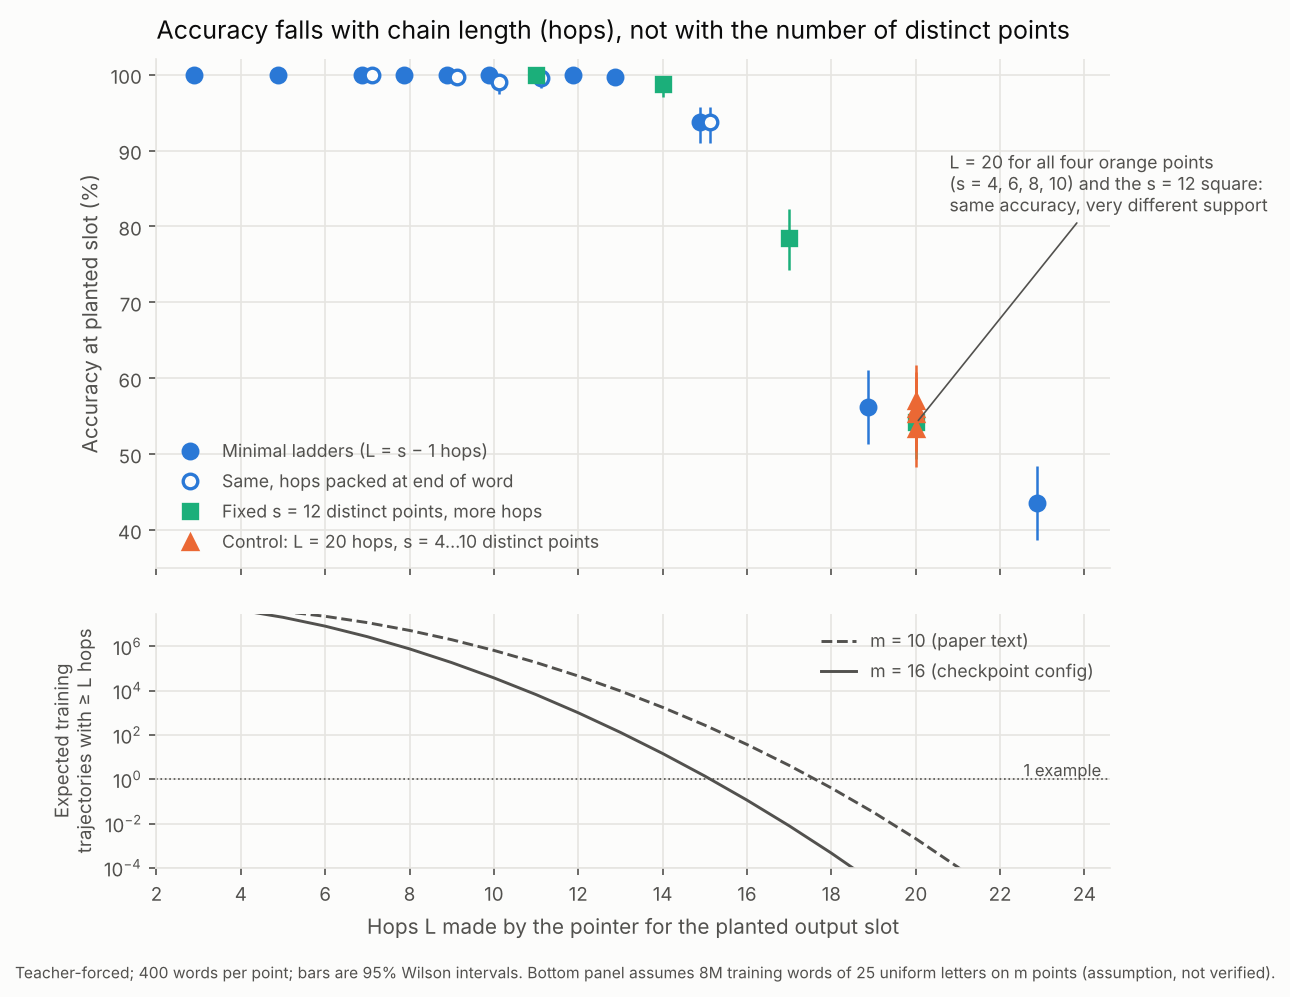
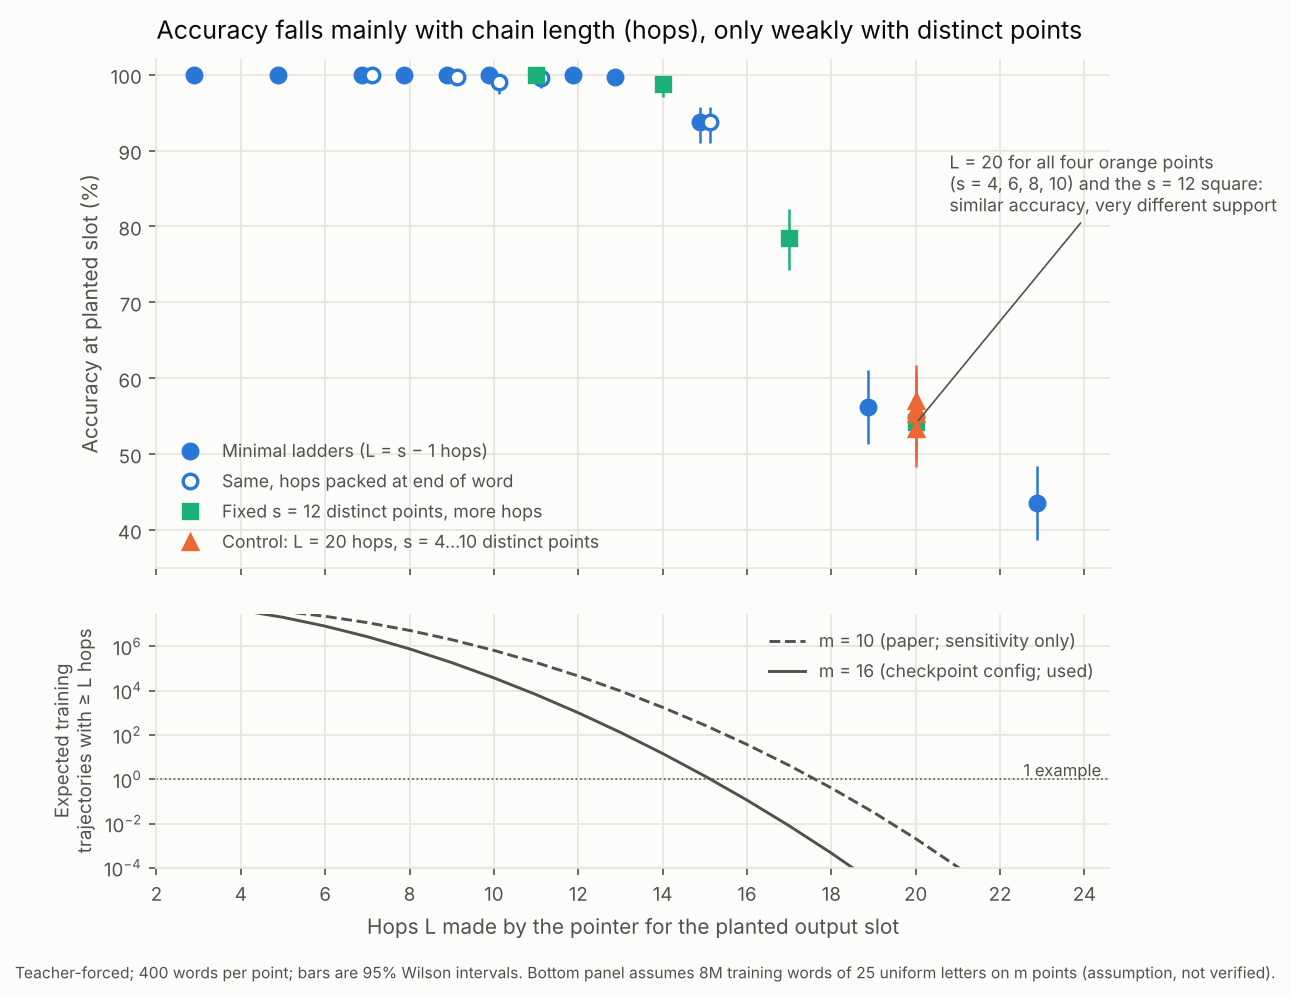
Update analysis: m=16 as training support, fixed-hop sweep, support stats, elementary position-embedding Gram
- report.md: take ACTUAL_GROUP_SIZE = 16 from the config as the training support; add the fixed-hop sweep across the s = 16/17 boundary
- run_beyond_support.py, support_stats.py and their results
- softened figure title (hop count dominates, distinct points have a small effect)
- elem_pos_gram.png: position-embedding self-similarity of the elementary checkpoint

Claude-Session: https://claude.ai/code/session_01WzxN2tYTWe13gioE5CAftL

diff --git a/claude-analysis/run_beyond_support.py b/claude-analysis/run_beyond_support.py
@@ -1,0 +1,37 @@
+"""
+Test B2: does having MORE distinct points than the training support (m = ACTUAL_GROUP_SIZE = 16 in the
+checkpoint config) hurt, once the number of hops L is held fixed?
+
+The ladder cells in run_ladder.py confound s and L (a chase with s distinct points needs L >= s-1 hops).
+Here L is fixed at 16 and at 20 and s is varied across the support boundary (s <= 16 inside, s >= 17 outside).
+Teacher-forced accuracy at the planted slot only (1 CPU, so no free-running decoding here).
+
+Usage: python run_beyond_support.py N_TF      (I used 1000; about 3 minutes)
+"""
+from paths import MODEL_TORN
+import csv, sys, time
+import numpy as np
+from np_transformer import NPTransformer
+from permdata import plant_batch
+from evalutil import tf_eval
+
+NTF = int(sys.argv[1]) if len(sys.argv) > 1 else 1000
+m = NPTransformer(MODEL_TORN)
+rng = np.random.default_rng(2027)
+
+cells = [(16, s) for s in (6, 12, 16, 17)] + [(20, s) for s in (6, 12, 16, 17, 21)]
+
+t0 = time.time()
+with open("beyond_support_results.csv", "w", newline="") as f:
+    wr = csv.writer(f)
+    wr.writerow(["L_hops", "s_distinct", "n_tf", "tf_k_ok", "tf_margin_median"])
+    for L, s in cells:
+        w, k = plant_batch(rng, NTF, L, s)
+        _, correct, margin, _ = tf_eval(m, w)
+        idx = np.arange(NTF)
+        ok = int(correct[idx, k].sum())
+        wr.writerow([L, s, NTF, ok, round(float(np.median(margin[idx, k])), 2)])
+        f.flush()
+        print(f"[{time.time()-t0:4.0f}s] L={L:2d} s={s:2d}  TF p_k {ok}/{NTF} ({100*ok/NTF:.1f}%)  "
+              f"margin med {np.median(margin[idx, k]):.1f}", flush=True)
+print("DONE")

diff --git a/claude-analysis/make_figure.py b/claude-analysis/make_figure.py
@@ -52,8 +52,8 @@ draw(s12, AQUA, "s", True, "Fixed s = 12 distinct points, more hops", 0.0)
 draw(ctrl, ORANGE, "^", True, "Control: L = 20 hops, s = 4…10 distinct points", 0.0)
 
 ax.set_ylim(35, 102); ax.set_ylabel("Accuracy at planted slot (%)", color=INK2, fontsize=10)
-ax.set_title("Accuracy falls with chain length (hops), not with the number of distinct points", loc="left", color=INK, fontsize=12, pad=10)
-ax.annotate("L = 20 for all four orange points\n(s = 4, 6, 8, 10) and the s = 12 square:\nsame accuracy, very different support", xy=(20, 54), xytext=(20.8, 82), fontsize=8.5, color=INK2,
+ax.set_title("Accuracy falls mainly with chain length (hops), only weakly with distinct points", loc="left", color=INK, fontsize=12, pad=10)
+ax.annotate("L = 20 for all four orange points\n(s = 4, 6, 8, 10) and the s = 12 square:\nsimilar accuracy, very different support", xy=(20, 54), xytext=(20.8, 82), fontsize=8.5, color=INK2,
             arrowprops=dict(arrowstyle="-", color=INK2, lw=0.8))
 ax.legend(loc="lower left", frameon=False, fontsize=8.5, labelcolor=INK2)
 
@@ -62,7 +62,7 @@ def tail(m, L, N=25):
     q = 2*(m-1)/m**2
     return sum(comb(N, j) * q**j * (1-q)**(N-j) for j in range(L, N+1))
 WORDS = 8_000_000
-for m, ls, lab in [(10, "--", "m = 10 (paper text)"), (16, "-", "m = 16 (checkpoint config)")]:
+for m, ls, lab in [(10, "--", "m = 10 (paper; sensitivity only)"), (16, "-", "m = 16 (checkpoint config; used)")]:
     cnt = np.array([WORDS * m * tail(m, L) for L in Ls])
     bx.semilogy(Ls, np.maximum(cnt, 1e-6), ls, color=INK2, lw=1.4, label=lab)
 bx.axhline(1, color=INK2, lw=0.8, ls=":")

diff --git a/claude-analysis/support_stats.py b/claude-analysis/support_stats.py
@@ -1,0 +1,30 @@
+"""
+How far outside a 16-point training support are the paper-style test words?
+
+A training word (config: ACTUAL_GROUP_SIZE = 16, RELABEL = True) only ever touches <= 16 points. For fresh uniform
+words of 25 general-transposition letters on 25 points we count
+  touched : distinct points appearing in any non-identity letter (the word's support)
+  moved   : points not fixed by the resulting permutation
+and report how often each exceeds 16 (and 10, the paper's value).
+
+Usage: python support_stats.py [N_WORDS]     (default 200000; a few seconds)
+"""
+import sys
+import numpy as np
+from permdata import random_words, apply_words, moved_points
+
+N = int(sys.argv[1]) if len(sys.argv) > 1 else 200_000
+n = 25
+rng = np.random.default_rng(2027)
+W = random_words(rng, N)
+a, b = W // n, W % n
+touched = np.zeros((N, n), bool)
+nz = a != b
+rows = np.broadcast_to(np.arange(N)[:, None], W.shape)
+touched[rows[nz], a[nz]] = True
+touched[rows[nz], b[nz]] = True
+T = touched.sum(1)
+M = moved_points(apply_words(W))
+for name, x in (("touched points", T), ("moved points", M)):
+    print(f"{name:15s} min {x.min():2d}  mean {x.mean():5.2f}  max {x.max():2d}   "
+          f"P(>16) = {np.mean(x > 16):.6f}   P(>10) = {np.mean(x > 10):.6f}")

diff --git a/claude-analysis/report.md b/claude-analysis/report.md
@@ -6,16 +6,16 @@ Code, raw results and the figure are in this folder; commands to reproduce are i
 ## 1. Summary
 
 1. **Baseline reproduced on freshly generated words.** Free-running accuracy was 3,000/3,000. Teacher-forced word accuracy was 19,999/20,000, with 499,999/500,000 positions correct.
-2. **Every test word is globally out of distribution.** Across 20,000 words, the number of points moved by the output permutation was at least 12 (mean 21.0), whereas training words move at most $m$ points ($m$ is 10 in the paper; see §2.3 for a discrepancy).
-3. **Natural test words contain almost no long chases.** Per output slot, the pointer chase (§3.1) visited at most 10 distinct points, and only 7 of 500,000 slots reached 10. The paper's accuracy therefore says nothing about slots with more than 10 distinct points.
-4. **Planted-chase ("ladder") tests: accuracy tracks the number of hops $L$, not the number of distinct points $s$.**
+2. **Almost every test word is outside the training support.** I take the training support to be $m=16$ points, as in the checkpoint's config (§2.3). Fresh test words touch 15–25 distinct points (mean 21.6), and 99.95% touch more than 16 (`support_stats.py`, 200,000 words). Their permutations move 12–25 points (mean 21.0).
+3. **But each individual chase in a natural test word is short.** Per output slot, the pointer chase (§3.1) visited at most 10 distinct points, and only 7 of 500,000 slots reached 10. So a test word is globally outside the support while every one of its output slots is locally well inside it. The paper-style accuracy therefore says nothing about slots with long chases.
+4. **Planted-chase ("ladder") tests: accuracy is governed mainly by the number of hops $L$. The number of distinct points $s$ has a much smaller, gradual effect.**
    - Accuracy is essentially perfect up to $L\approx 12$ and falls steeply after $L\approx 15$.
-   - At $L=20$ hops, teacher-forced accuracy is 53–57% for $s=4,6,8,10$ and 54% for $s=12$.
    - At fixed $s=12$: 100% ($L=11$), 98.8% ($L=14$), 78.5% ($L=17$), 54.2% ($L=20$).
-5. **So the hypothesis I proposed earlier, that accuracy collapses once a trajectory has more distinct points than the training support, is not supported.** If $m=10$, chases with 11–14 distinct points were 99.8–100% correct. And the model fails with only 4 distinct points when the chase is long.
-6. **Unresolved: why hop count matters.** Either the 5-layer network cannot follow longer chains, or long chains are too rare in training, or both. The data is consistent with both (§3.2).
-7. **Token embeddings are close to $S_{25}$-invariant** (§3.4), but one of my earlier predictions about their spectrum failed.
-8. **A question for you:** the checkpoint's config says `ACTUAL_GROUP_SIZE = 16`, but the paper says training used $S_{10}$. Which was used for this checkpoint? (§2.3)
+   - At $L=20$ the model is at about 50–60% whether the chase visits 4 points or 21: 59.5% ($s=6$), 54.4% ($s=12$), 53.4% ($s=16$), 50.8% ($s=17$), 50.3% ($s=21$) with 1,000 words per cell.
+5. **So the hypothesis I proposed earlier, that accuracy collapses once a chase visits more distinct points than the training support, is not supported.** With $m=16$ my first ladder cells (11–14 distinct points, about 100% correct) were inside the support and did not test it. The fixed-hop sweep (§3.3) does: at $L=16$ and $L=20$ there is no step between $s=16$ and $s=17$ (changes of $+1.6$ and $-2.6$ points, each about one standard error). Accuracy declines only gently with $s$, by about 9 points from $s=6$ to $s=21$ at $L=20$.
+6. **Unresolved: why hop count matters.** Either the 5-layer network cannot follow longer chains, or long chains are too rare in training, or both. The data is consistent with both (§3.3).
+7. **Token embeddings are close to $S_{25}$-invariant** (§3.5), but one of my earlier predictions about their spectrum failed.
+8. **Training support is taken as $m=16$** from the config, per your note that this checkpoint may not be the paper's model (§2.3). I have not verified it against the training data.
 
 ## 2. Setup and provenance
 
@@ -32,7 +32,7 @@ Code, raw results and the figure are in this folder; commands to reproduce are i
 
 ### 2.3 Test words, and a discrepancy about the training support
 - The paper's test set is not in the repo. I generated words to match `fast-data-gen/src/main.rs` for the general type: 25 letters, each an independent uniform draw from the $25^2=625$ tokens (token $=25a+b$), with the permutation computed by swapping positions as in `get_permutation`.
-- **Discrepancy:** `trained-models/torn-bigger-13-config.py` sets `MAX_GROUP_SIZE = 25` and `ACTUAL_GROUP_SIZE = 16`, with `RELABEL = True`. The paper says $S_{10}$. The training data is not in the repo and I could not tell from the files which support size was used. **I show both $m=10$ and $m=16$ wherever it matters.** The main conclusion in item 4 above does not depend on which is right, because the failures also occur at $s=4$, well inside either support.
+- **Training support.** `trained-models/torn-bigger-13-config.py` sets `MAX_GROUP_SIZE = 25` and `ACTUAL_GROUP_SIZE = 16`, with `RELABEL = True`. The paper says $S_{10}$. You told me this checkpoint is probably not the one reported in the paper, merely one that did well, and that the config should be trusted over the paper. **So the working assumption throughout is $m=16$.** The training data is not in the repo, so I have not verified this independently. The $m=10$ row of the table in §3.3 and the dashed curve in the figure are kept only as a sensitivity check.
 
 ## 3. Results
 
@@ -92,20 +92,39 @@ Source: `strat_summary.txt` (20,000 words, 500,000 slots, teacher-forced).
 The full table (24 cells, including the remaining contig cells) is in `ladder_results.csv`.
 
 **What it shows.**
-- At $L=20$ the accuracy is the same, within noise, for $s=4$ up to $s=12$. At $s=12$ it varies from 100% to 54% as $L$ goes from 11 to 20. So $L$, not $s$, drives the failure.
+- At $L=20$ the accuracy is the same, within noise, for $s=4$ up to $s=12$ (400 words per cell). At $s=12$ it varies from 100% to 54% as $L$ goes from 11 to 20. So $L$ is the dominant variable. The larger fixed-hop sweep below finds a small additional dependence on $s$.
 - Where it fails, it fails softly: the median margin between the true logit and the best competitor goes from about 20 (easy) to about 0.6 at $L=20$. The model is close to indifferent rather than confidently wrong.
 - At $L\ge19$ accuracy is around 50%, not near chance ($1/25$).
 - Hop letters packed at the end of the word give about the same accuracy as spread-out ones (e.g. both 93.8% at $L=15$).
 - Other output slots in the planted words stay at least 99% correct in every cell.
 
+**Fixed-hop sweep across the support boundary.** The ladder cells confound $s$ and $L$, because a chase with $s$ distinct points needs at least $s-1$ hops. To test the boundary $m=16$ directly I fixed $L$ and varied $s$ from inside the support ($s\le16$) to outside it ($s\ge17$). Script `run_beyond_support.py`, teacher-forced, 1,000 words per cell, seed 2027, result in `beyond_support_results.csv`.
+
+| $L$ | $s$ | teacher-forced slot [95% CI] | median logit margin |
+|---|---|---|---|
+| 16 | 6 | 910/1000 (91.0%) [89.1, 92.6] | 11.6 |
+| 16 | 12 | 890/1000 (89.0%) [86.9, 90.8] | 8.5 |
+| 16 | 16 | 855/1000 (85.5%) [83.2, 87.5] | 6.7 |
+| 16 | 17 | 871/1000 (87.1%) [84.9, 89.0] | 6.3 |
+| 20 | 6 | 595/1000 (59.5%) [56.4, 62.5] | 1.6 |
+| 20 | 12 | 544/1000 (54.4%) [51.3, 57.5] | 0.8 |
+| 20 | 16 | 534/1000 (53.4%) [50.3, 56.5] | 0.5 |
+| 20 | 17 | 508/1000 (50.8%) [47.7, 53.9] | 0.1 |
+| 20 | 21 | 503/1000 (50.3%) [47.2, 53.4] | 0.0 |
+
+- Hop count dominates. Going from $L=16$ to $L=20$ costs about 30–35 points at every $s$ (for example 89.0% to 54.4% at $s=12$).
+- $s$ has a small but real effect. At $L=20$, accuracy falls from 59.5% ($s=6$) to 50.3% ($s=21$), a 9-point drop with a standard error of about 2. At $L=16$ the drop from $s=6$ to $s=17$ is 3.9 points (standard error 1.4).
+- There is no step at the support boundary. Going from $s=16$ to $s=17$ changes accuracy by $+1.6$ points at $L=16$ and $-2.6$ at $L=20$, each about one standard error.
+- Caveat: at fixed $L$, larger $s$ also means a different word structure (fewer revisits of the same point), so this is not a pure change in support size.
+
 **Relation to training frequency (suggestive only).** Assuming 8M training words of 25 uniform letters on $m$ points (the dataset size is from the paper's hyperparameter table; the rest is an assumption), the expected number of training trajectories with at least $L$ hops is:
 
 | $L \ge$ | 12 | 13 | 15 | 17 | 19 |
 |---|---|---|---|---|---|
-| $m=10$ | 46,300 | 9,790 | 280 | 4.3 | 0.03 |
-| $m=16$ | 1,020 | 132 | 1.4 | 0.008 | $2\times10^{-5}$ |
+| $m=16$ (working assumption) | 1,020 | 132 | 1.4 | 0.008 | $2\times10^{-5}$ |
+| $m=10$ (sensitivity only) | 46,300 | 9,790 | 280 | 4.3 | 0.03 |
 
-The accuracy cliff (about $L=15$–19) sits where the expected training count drops from hundreds to about zero. That fits a "long chains are rare in training" explanation. It equally fits a "five layers can only follow so many hops" explanation, and this experiment cannot separate them.
+Under $m=16$ the model still gets 94% right at $L=15$ and 78% at $L=17$, where the training set would be expected to contain about one such chase or none at all. So it extrapolates past the chain lengths it was trained on, and degrades gradually rather than failing at the edge of its training data. A sharp "long chains are rare, so unlearned" explanation does not fit that well. A softer version does: the model composes the short chains it has seen and becomes less reliable as the chain grows beyond them. A depth limit ("five layers can only follow so many hops") predicts a similar gradual decline, and this experiment cannot separate the two. The expected counts also rest on unverified assumptions about the training data.
 
 **Limitations of the design.** At $L=20$, 80% of the word's letters belong to one chain, so planted words differ from training words in other ways too (§4). The cells use 200 free-running and 400 teacher-forced words, so intervals are about ±5 percentage points. Teacher forcing lets the model see correct earlier outputs, which may help it.
 
@@ -136,14 +155,14 @@ An $S_{25}$-invariant Gram matrix would be a combination of the three isotypic p
 ## 4. What this means for the density idea
 
 - The algebraic reason the target is local (Moore's presentation: every relation involves at most 4 points, and the pointer chase needs one point at a time) stands. The experiments above don't test it directly.
-- What the data does say is that the model's generalization in the number of points is real, but its ability to follow a chain has a length limit well below the 25 letters available. An accurate statement of what training "covers" is therefore about **chain length (hop count)**, not about how many distinct points a trajectory touches.
-- In the spirit of the $\mathbb{Q}\subset\mathbb{R}$ analogy: the training distribution is dense in short chains, wherever they sit among 25 points, and sparse in long ones. A density argument would need a metric in which "long chain" is far from "short chain".
+- What the data does say is that the model's generalization beyond the training support is real at the level of whole words (99.95% of test words touch more than 16 points), while each output slot only needs a short chase (at most 10 distinct points in 500,000 natural slots). The ability to follow a chain falls off at $L\approx15$ to 20, far below the 25 letters available, and the fall is gradual, with no step at the support boundary. An accurate statement of what training "covers" is therefore about **chain length (hop count)**, not about how many distinct points a word or a trajectory touches.
+- In the spirit of the $\mathbb{Q}\subset\mathbb{R}$ analogy: the objects that need to be dense are trajectories (chases), not words. The training distribution is dense in short chains, wherever they sit among 25 points, and sparse in long ones. A density argument would need a metric in which "long chain" is far from "short chain".
 - I can't say from this evidence whether the limit is architectural (depth) or statistical (rarity in training). Separating them needs experiments with new training runs (§6).
 
 ## 5. Corrections to my earlier messages
-1. **Ladder hypothesis.** I framed the ladder test as "collapse at 11 distinct points means bounded-support patterns". There is no collapse at 11; the data refute that version.
+1. **Ladder hypothesis.** I framed the ladder test around a boundary at 11 distinct points (the paper's $m=10$). With $m=16$ the relevant boundary is 17. Neither shows a collapse (summary item 5).
 2. **Word length.** My earlier closed-form tail estimates assumed 24 letters. The config uses 25 (`MAX_TRANS_NUMBER = 25`). Recomputed, the per-trajectory probability of at least 11 distinct points is $1.1\times10^{-6}$ (was $7.0\times10^{-7}$), and per word at most $2.7\times10^{-5}$ (was $1.7\times10^{-5}$). The simulation I ran earlier used 24 letters; the stratified run here uses 25 and saw none in 20,000 words, consistent with this.
-3. **Training support.** I assumed $m=10$ throughout; the config says 16 (§2.3).
+3. **Training support.** I assumed $m=10$ in earlier messages. The config says 16, and you said to trust the config (§2.3). This changes which of my earlier statements about "beyond the support" are actually tested: see item 5 of the summary and §3.3.
 4. **Gram spectrum.** See §3.5.
 5. **Untested:** my earlier suggestion that $m=4$ or $5$ might already suffice has not been tested (it needs retraining).
 
@@ -169,8 +188,10 @@ Run from this folder (`claude-analysis/`). Scripts find the checkpoint at `../sc
 | `sanity.py` | checks the decoder and pointer picture |
 | `run_stratified.py N_FREE N_TF` then `analyse_strat.py` | baseline and stratified accuracy (I used `3000 20000`; about 7 minutes) |
 | `run_ladder.py N_FREE N_TF` | ladder tests (I used `200 400`; about 5 minutes) |
+| `run_beyond_support.py N_TF` | fixed-hop sweep across the $s=16$/$17$ boundary (I used `1000`; about 3 minutes) |
+| `support_stats.py` | how many points fresh test words touch and move (seconds) |
 | `run_error_anatomy.py` | failure anatomy (§3.4) |
 | `run_gram.py` | Gram spectrum (§3.5) |
 | `make_figure.py` | draws `fig_accuracy_vs_hops.png` from `ladder_results.csv` |
 
-Results included: `ladder_results.csv`, `strat_summary.txt`, `gram_results.json`, `gram_spectrum.png`, `fig_accuracy_vs_hops.png`. The raw per-slot arrays from the stratified run (`strat_results.npz`, 2.3 MB) are not included; `run_stratified.py` regenerates them with the same seed.
+Results included: `ladder_results.csv`, `beyond_support_results.csv`, `support_stats.txt`, `strat_summary.txt`, `gram_results.json`, `gram_spectrum.png`, `fig_accuracy_vs_hops.png`. The raw per-slot arrays from the stratified run (`strat_results.npz`, 2.3 MB) are not included; `run_stratified.py` regenerates them with the same seed.
